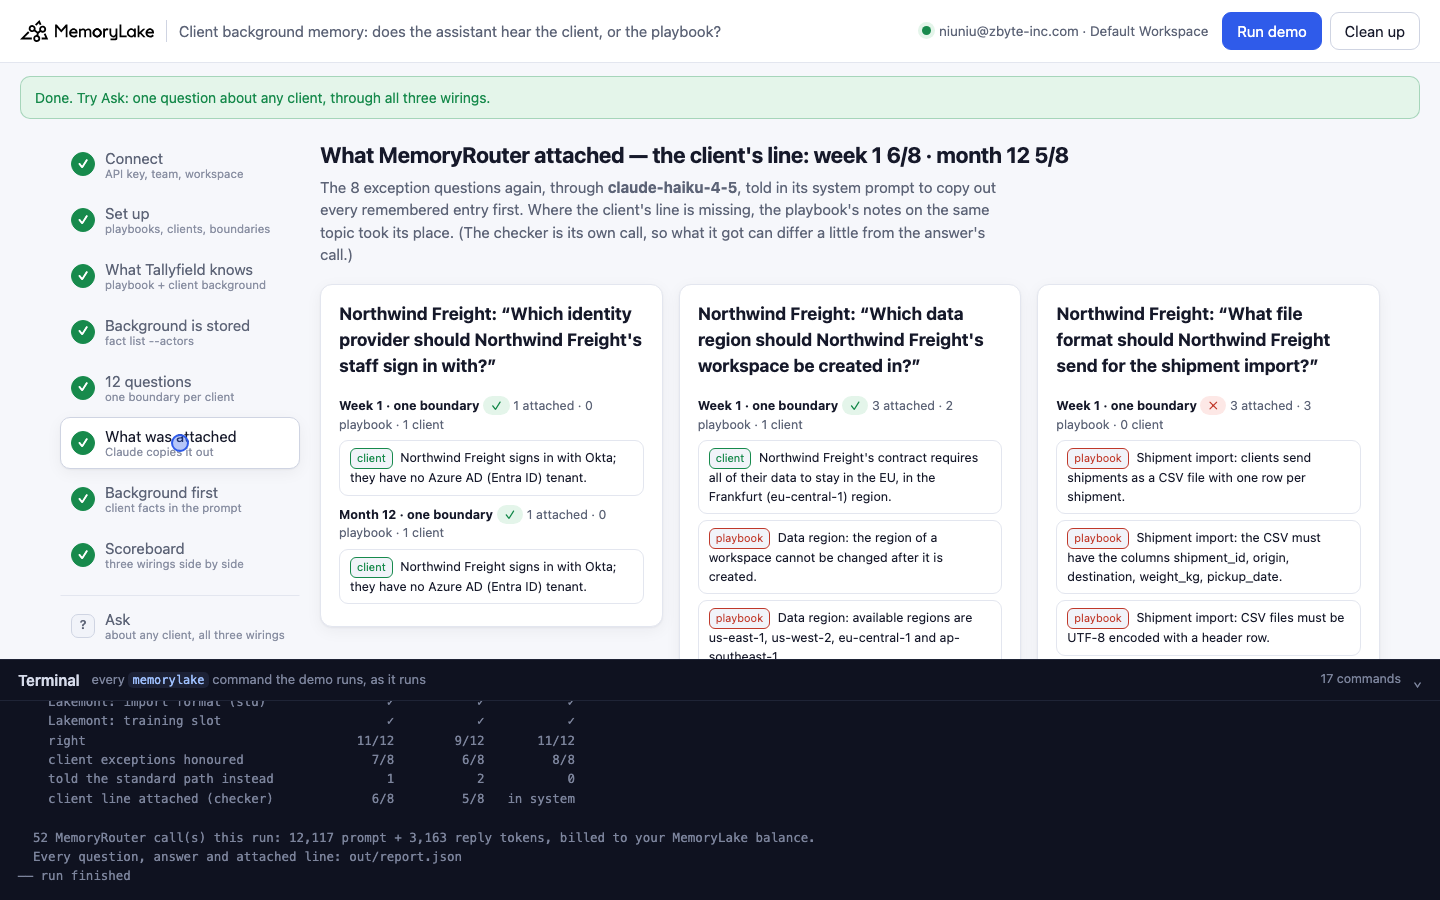
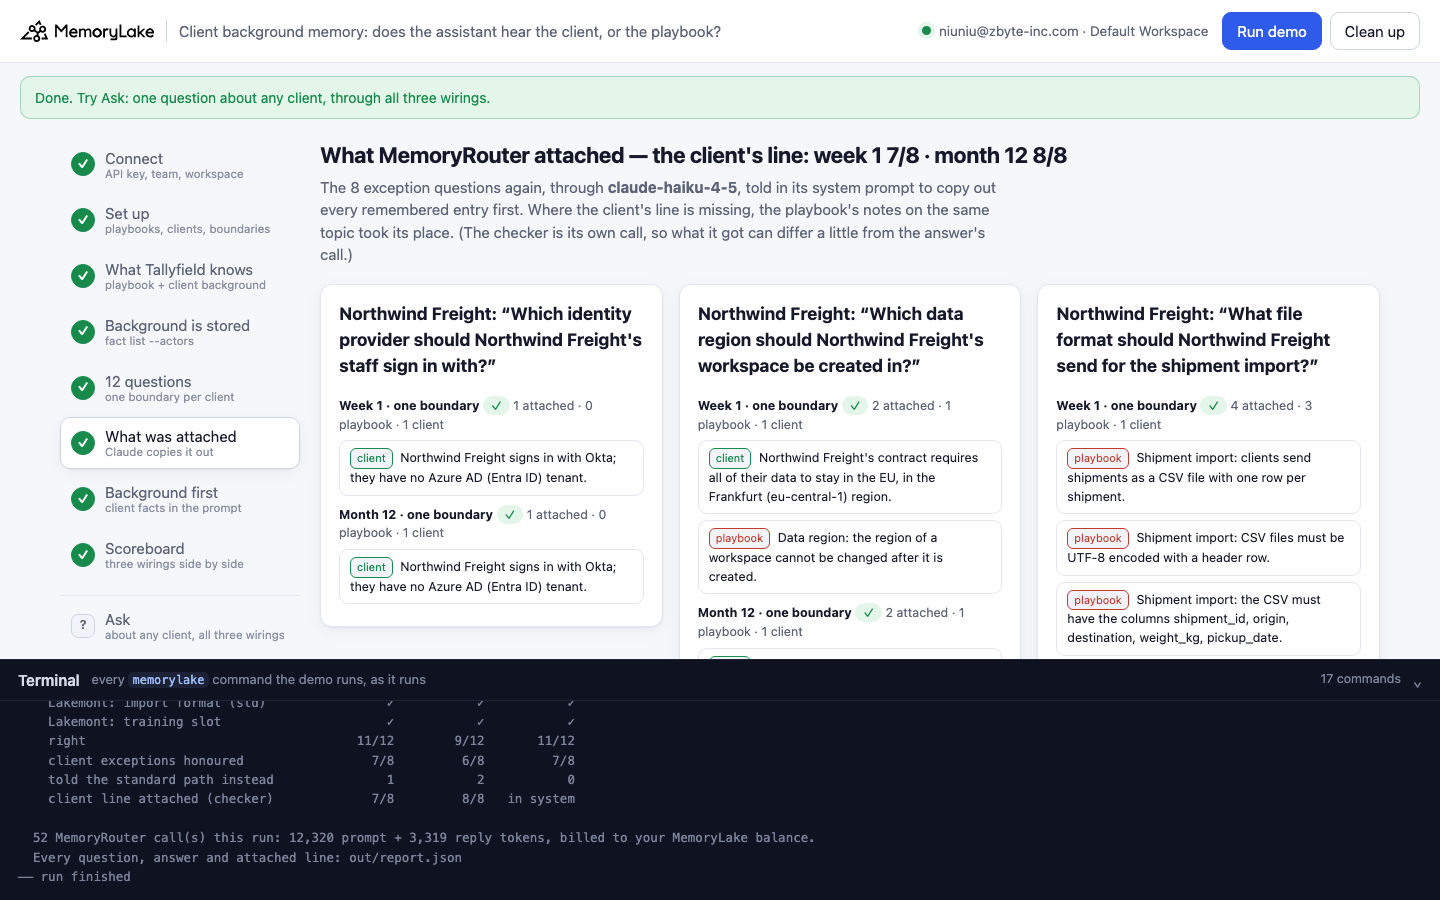
client-background-memory: video links, 9-run totals, screenshots from the recording

diff --git a/client-background-memory/README.md b/client-background-memory/README.md
@@ -4,7 +4,8 @@ A runnable version of the MemoryLake use case
 [*Give Customer Success Teams AI That Already Knows Each Client*](https://www.memorylake.ai/en/usecase/ai-memory-for-client-onboarding-teams),
 built entirely on the [`memorylake` CLI](https://github.com/memorylake-ai/memorylake-cli) (v20261015 or later).
 
-**Watch it run:** videos are being recorded.
+**Watch it run:** [CLI, 6:24](https://github.com/memorylake-ai/memorylake-usecases/releases/download/client-background-memory-v1/client-background-memory-cli-demo.mp4) · [Web, 6:36](https://github.com/memorylake-ai/memorylake-usecases/releases/download/client-background-memory-v1/client-background-memory-web-demo.mp4)
+([release](https://github.com/memorylake-ai/memorylake-usecases/releases/tag/client-background-memory-v1); GitHub serves them as downloads).
 
 **The problem.** An onboarding assistant needs two kinds of memory: the team's shared playbook (how we normally
 do SSO, regions, imports, training) and each client's background (the few things where *this* client is
@@ -20,16 +21,16 @@ Couriers must be in us-west-2 and sends shipments through the API as JSON; Lakem
 on Saturdays. The assistant answers through MemoryRouter (`router chat`, `gpt-4o-mini`, temperature 0) with
 three wirings:
 
-| Wiring | How | What happens on the 8 client exceptions (7 runs) |
+| Wiring | How | What happens on the 8 client exceptions (9 runs) |
 |---|---|---|
-| **Week 1 · one boundary** | `boundary create --projects <playbook> --human-actor <client>`, playbook of 12 notes | **46 / 56**. *"What file format should Copperline Couriers send?"* → *"CSV file, UTF-8 encoded required"*, **0 of 7 runs** right |
-| **Month 12 · one boundary** | the same, playbook of 293 notes (steps + a record of every client who followed them) | **42 / 56**. Copperline's import 0 / 7 again; Lakemont told to book *"Tuesday at 10:00 AM"* |
-| **Month 12 · background first** | the client's facts (`fact list --actors`, all of them) in the system prompt; the boundary covers the playbook only | **56 / 56**. The 4 standard-path questions are the control: 26 / 28 |
+| **Week 1 · one boundary** | `boundary create --projects <playbook> --human-actor <client>`, playbook of 12 notes | **60 / 72**. *"What file format should Copperline Couriers send?"* → *"CSV file, UTF-8 encoded required"*, **0 of 9 runs** right |
+| **Month 12 · one boundary** | the same, playbook of 293 notes (steps + a record of every client who followed them) | **53 / 72**. Copperline's import 0 / 9 again; Lakemont told to book *"Tuesday at 10:00 AM"* |
+| **Month 12 · background first** | the client's facts (`fact list --actors`, all of them) in the system prompt; the boundary covers the playbook only | **71 / 72**. The 4 standard-path questions are the control: 34 / 36 |
 
 A checker (Claude copying out what MemoryRouter attached) shows why: for Copperline's import question the
 attached lines are the playbook's *"Shipment import: … CSV …"* notes and not the client's *"sends shipments
-through the Tallyfield REST API as JSON"*, at 12 notes as at 293. Playbook size was not the driver; the wording
-was. This is what the use-case page means by *client identity loaded before the first message*: a client's
+through the Tallyfield REST API as JSON"* (13 of the 14 checks we kept logs for, at 12 notes as at 293). The
+bigger playbook made things somewhat worse, but the wording decided which exceptions were lost. This is what the use-case page means by *client identity loaded before the first message*: a client's
 background is a handful of facts, so read all of it and put it in front; let the retrieval layer handle the
 part that is too big to read whole.
 
@@ -147,7 +148,7 @@ entry before answering (the user message is unchanged, so retrieval sees the sam
   · the client's own line attached: week1 6/8 · month12 7/8; playbook lines per question: week1 1.5 · month12 2.0
 ```
 
-Two ways the exception gets lost. Copperline's import line is never attached: the question shares the playbook's
+Two ways the exception gets lost. Copperline's import line is (almost) never attached: the question shares the playbook's
 words (*file format, shipment import*), not the client's (*REST API, JSON*). Lakemont's training line *was*
 attached in this run and the answer was still *Tuesday at 10:00*: in a boundary the client's line and the
 playbook's are peers, and nothing tells the model which one overrides. The checker is its own call, so what it
@@ -216,20 +217,22 @@ $ python3 demo.py ask copperline "How should they send us their shipments?"
 ## Measured
 
 Every fresh run with the final questions and grading while building this demo (1 in the terminal before this one,
-3 parallel copies, 1 browser check, the run above, the 2 recordings pending): 7 runs.
+3 parallel copies, 1 browser check, the run above, the 2 recordings): 9 runs.
 
 | | Week 1 · one boundary | Month 12 · one boundary | Month 12 · background first |
 |---|---|---|---|
-| client exceptions honoured | **46 / 56** | **42 / 56** | **56 / 56** |
-| answered with the standard path instead | 10 | 14 | 0 |
-| standard-path questions right (control) | 28 / 28 | 22 / 28 | 26 / 28 |
-| checker: the client's line attached | 45 / 56 | 43 / 56 | all of it, in the system prompt |
-| Copperline's import question | 0 / 7 | 0 / 7 | 7 / 7 |
+| client exceptions honoured | **60 / 72** | **53 / 72** | **71 / 72** |
+| answered with the standard path instead | 12 | 19 | 0 |
+| standard-path questions right (control) | 36 / 36 | 28 / 36 | 34 / 36 |
+| checker: the client's line attached | 59 / 72 | 57 / 72 | all of it, in the system prompt |
+| Copperline's import question | 0 / 9 | 0 / 9 | 8 / 9 |
 
-- Playbook size barely moved anything: week 1 and month 12 attach the client's line about as often. The misses sit
-  on particular questions, run after run: Copperline's import line was attached in neither mixed boundary in any run whose checker log we kept (6 of 7; the browser check's report was removed by its cleanup).
-- The control misses for background first are Copperline's sign-in question: one answer was *"Use their corporate
-  identity provider"*, apparently reading the parent company in Copperline's region fact as a hint about
+- Playbook size moved things only a little (exceptions 60 vs 53 of 72; the client's line attached about as often).
+  The misses sit on particular questions, run after run: Copperline's import line was attached in 1 of the 14
+  mixed-boundary checks we kept logs for (7 of 9 runs; the reports of the first browser check and the CLI recording were removed with their cleanup), and in that one run the answer was still CSV.
+- Background first missed once on an exception: Copperline's import answered *"No file export"*, which is true but
+  not the answer (JSON through the API); the grader counts it wrong. Its control misses are Copperline's sign-in
+  question: one answer was *"Use their corporate identity provider"*, apparently reading the parent company in Copperline's region fact as a hint about
   sign-in. Putting background in front is not free; check the standard-path questions too.
 - Earlier versions of the questions (*"How do we set up sign-in …"*, *"When should we run the training …"*) drew
   process answers (*"book two weeks ahead"*); the questions were sharpened to ask for the thing itself, and those

diff --git a/README.md b/README.md
@@ -81,7 +81,7 @@ that memory can hold once it is more than coding sessions.
 | [followup-chat-memory](followup-chat-memory/) | Developers building chatbots (multi-turn chat) | "And Maya?" — a follow-up that doesn't say what it is about. A family-assistant chatbot remembers 65 facts about one user; one chat of seven questions, only the first names who it is about. Lookup on the latest message (`search` → prompt) gets someone else's facts and answers "I don't have information" (45/70 over 10 runs); a window of recent turns drags the old subject into the new one and makes answers up (34/49); MemoryRouter with the conversation in the body (`router chat --body … --boundary`) 56/56. A checker shows what it attached on each follow-up. | ~2½ min | [CLI 3:45](https://github.com/memorylake-ai/memorylake-usecases/releases/download/followup-chat-memory-v1/followup-chat-memory-cli-demo.mp4) · [Web 4:19](https://github.com/memorylake-ai/memorylake-usecases/releases/download/followup-chat-memory-v1/followup-chat-memory-web-demo.mp4) |
 | [training-qa-memory](training-qa-memory/) | Support team leads & trainers | The policy changed; the answers it shaped did not. A support training memory (procedures, policies, a past cohort's Q&A answered by a senior agent); five policies are tightened and the policy facts updated. A new agent asks about the same situations through MemoryRouter (`router chat --boundary`): the old worked answer is the closest match, gets attached instead of (or next to) the rule, and the model repeats it — 5/40 right over 8 runs. A change note on each policy: 28/40. Re-answering the Q&A found by `metadata.relies_on`: 40/40. A checker shows what was attached. | ~3 min | [CLI 3:52](https://github.com/memorylake-ai/memorylake-usecases/releases/download/training-qa-memory-v1/training-qa-memory-cli-demo.mp4) · [Web 4:54](https://github.com/memorylake-ai/memorylake-usecases/releases/download/training-qa-memory-v1/training-qa-memory-web-demo.mp4) |
 | [user-owned-memory](user-owned-memory/) | Engineering & developers (consumer AI products) | Whose memory is the coach reading? Six users of a wellness app, the same 30 memories stored three ways; each user asks the in-app coach one question through MemoryRouter (`router chat --boundary`). One pool with the owner in `metadata.user_id`: other users' allergies and injuries are attached and answered as the asker's — 9/42 right over 7 runs. The owner's name written into each fact: still 22/42. One actor + one boundary per user (`--human-actor`): 42/42, and a checker shows 0 foreign lines. Then export (`fact list --actors`) and delete for one user's scope, vs. scanning the pool. | ~3 min | [CLI 4:54](https://github.com/memorylake-ai/memorylake-usecases/releases/download/user-owned-memory-v1/user-owned-memory-cli-demo.mp4) · [Web 5:53](https://github.com/memorylake-ai/memorylake-usecases/releases/download/user-owned-memory-v1/user-owned-memory-web-demo.mp4) |
-| [client-background-memory](client-background-memory/) | Sales & customer success (client onboarding) | Does the onboarding assistant hear the client, or the playbook? Three clients with exceptions (Okta, Frankfurt, XML-only, JSON via API, no SSO, Saturday training), a shared playbook of 12 and of 293 notes, one boundary per client over both (`boundary create --projects <playbook> --human-actor <client>`): MemoryRouter attaches the playbook's on-topic notes and drops the client's line when the question is worded like the playbook — Copperline's *"What file format …"* answered CSV in 0/7 runs either way; exceptions honoured 46/56 (week 1) and 42/56 (month 12). Client background loaded first (`fact list --actors` into the system prompt, boundary over the playbook only): 56/56. | ~6 min | recording |
+| [client-background-memory](client-background-memory/) | Sales & customer success (client onboarding) | Does the onboarding assistant hear the client, or the playbook? Three clients with exceptions (Okta, Frankfurt, XML-only, JSON via API, no SSO, Saturday training), a shared playbook of 12 and of 293 notes, one boundary per client over both (`boundary create --projects <playbook> --human-actor <client>`): MemoryRouter attaches the playbook's on-topic notes and drops the client's line when the question is worded like the playbook — Copperline's *"What file format …"* answered CSV in 0/9 runs either way; exceptions honoured 60/72 (week 1) and 53/72 (month 12). Client background loaded first (`fact list --actors` into the system prompt, boundary over the playbook only): 71/72. | ~6 min | [CLI 6:24](https://github.com/memorylake-ai/memorylake-usecases/releases/download/client-background-memory-v1/client-background-memory-cli-demo.mp4) · [Web 6:36](https://github.com/memorylake-ai/memorylake-usecases/releases/download/client-background-memory-v1/client-background-memory-web-demo.mp4) |
 
 The videos are real, unedited recordings; every asset lives on the [releases page](https://github.com/memorylake-ai/memorylake-usecases/releases).
 
